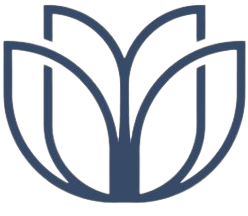
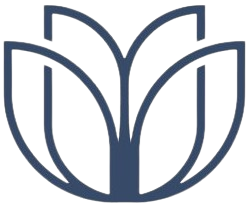
google ads

diff --git a/index.html b/index.html
@@ -22,7 +22,9 @@
     })(window, document, "script", "dataLayer", "GTM-5KB67D76");
   </script>
   <meta name="viewport" content="width=device-width, initial-scale=1" />
-  <title>Nutricionista Maiana Maria</title>
+  <title>Nutricionista em Niterói - Maiana Maria | Emagrecimento e Saúde</title>
+<meta name="description" content="Nutricionista em Niterói (Icaraí) 
+com atendimento presencial e online. Especialista em emagrecimento, hipertrofia e saúde intestinal. Agende sua consulta." />
   <link rel="stylesheet" href="styles.css" />
   <link
     href="https://fonts.googleapis.com/css2?family=Playfair+Display:wght@400;600;700&family=Inter:wght@300;400;500;600;700&display=swap"
@@ -39,7 +41,7 @@
   <header class="hero">
     <nav class="nav">
       <div class="brand">
-        <img src="images/nutricionista-niteroi-maiana-maria-simbolo.png" alt="Símbolo da nutricionista Maiana Maria Niteroi" />
+        <img src="images/nutricionista-niteroi-maiana-maria-simbolo.webp" loading="lazy" alt="Símbolo da nutricionista Maiana Maria Niteroi" />
         <span>Maiana Maria</span>
       </div>
       
@@ -55,7 +57,7 @@
     <div class="hero-content">
       <div class="hero-text">
         <p class="eyebrow">Acompanhamento nutricional individualizado</p>
-        <h1>Resultados reais e sustentáveis para a sua saúde.</h1>
+        <h1>Nutricionista em Niterói: Resultados reais e sustentáveis para a sua saúde.</h1>
         <p class="hero-p1">
           Emagrecimento, hipertrofia, saúde gastrointestinal e equilíbrio
           metabólico com acompanhamento especializado. Com escuta,
@@ -68,12 +70,12 @@
             target="_blank" rel="noopener">
             Agende sua consulta
           </a>
-          <span class="note">Atendimento presencial em Icaraí e online para todo o
+          <span class="note">Atendimento presencial em Niterói e online para todo o
             Brasil.</span>
         </div>
       </div>
       <div class="foto-maiana">
-          <img class="foto-maiana-img" src="images/nutricionista-niteroi-maiana-maria-fotoMaoNoQueixo.jpeg" alt="Foto da nutricionista Maiana Maria Niteroi" />
+          <img class="foto-maiana-img" src="images/nutricionista-niteroi-maiana-maria-fotoMaoNoQueixo.webp" loading="lazy" alt="Foto da nutricionista Maiana Maria Niteroi" />
         </div>
       </div>
     </div>
@@ -120,10 +122,9 @@
         <article class="card">
           <h3>Canetas Emagrecedoras</h3>
           <p>
-            Se você está usando medicações para emagrecimento e enfrenta enjoos, náuseas, 
-            queda de cabelo, cansaço ou perda de massa muscular, a nutrição certa faz toda a diferença. 
-            Tenha um acompanhamento nutricional focado em reduzir os efeitos colaterais, proteger sua massa magra 
-            e potencializar seus resultados, para que você emagreça com mais qualidade de vida e segurança.
+            Evite náuseas, queda de cabelo e perda de massa muscular ao usar medicações. 
+            Nutrição adequada para minimizar efeitos colaterais e potencializar 
+            seu emagrecimento com segurança.
           </p>
         </article>
       </div>
@@ -132,7 +133,7 @@
     <section class="section about" id="sobre">
       <div class="about-image">
         <div class="photo-card secondary hero-photo">
-          <img class="about-photo-image logo-maiana" src="images/nutricionista-niteroi-maiana-maria-nomeESimbolo.png" alt="Logo Nutricionista Maiana Maria Niteroi" />
+          <img class="about-photo-image logo-maiana" src="images/nutricionista-niteroi-maiana-maria-nomeESimbolo.webp" loading="lazy" alt="Logo Nutricionista Maiana Maria Niteroi" />
         </div>
       </div>
       <div class="about-text">
@@ -162,6 +163,14 @@
           ou desenvolver hábitos alimentares que realmente funcionem no dia a dia, será um prazer acompanhar a sua jornada.
           Atendo em consultório em Niterói e também realizo consultas online para pacientes de todo o Brasil.
         </p>
+      </div>
+    </section>
+    
+    <section class="section reviews-section" id="avaliacoes">
+      <div class="reviews-container">
+        <h2>O que dizem os pacientes</h2>
+        <script src="https://elfsightcdn.com/platform.js" async></script>
+        <div class="elfsight-app-755568e9-a37d-4377-bee5-1ad4613470a2" data-elfsight-app-lazy></div>
       </div>
     </section>
 
@@ -205,7 +214,7 @@
 
         <div class="health-image">
           <div class="photo-card health health-photo">
-            <img class="health-photo-image" src="images/fotoFitaInteira.jpeg" alt="Imagem que remete à saúde" />
+            <img class="health-photo-image" src="images/nutricionista-niteroi-maiana-maria-fotoFitaInteira.webp" loading="lazy" alt="Imagem que remete à saúde" />
           </div>
         </div>
       </div>
@@ -232,7 +241,7 @@
             Agende a sua consulta
           </a>
           <span class="note">
-            Atendimento presencial em Icaraí e on-line para todo Brasil.<br/>
+            Atendimento presencial em Niterói e on-line para todo Brasil.<br/>
             Somente consultas particulares – Não aceito convênios.
           </span>
           
@@ -254,7 +263,17 @@
     <p>
       Atendimento presencial: Rua Otávio Carneiro, 100, Icaraí – Niterói/RJ<br />
       Consultas online para todo o Brasil.
+      
     </p>
+    <div class="map-container">
+      <iframe 
+    class="map-iframe"
+    src="https://www.google.com/maps/embed?pb=!1m18!1m12!1m3!1d3675.3197607775084!2d-43.10915682390977!3d-22.901633540243543!2m3!1f0!2f0!3f0!3m2!1i1024!2i768!4f13.1!3m3!1m2!1s0x99817ccb9f71bf%3A0xc6c761e0bb4dcdd!2sR.%20Ot%C3%A1vio%20Carneiro%2C%20100%20-%20Icara%C3%AD%2C%20Niter%C3%B3i%20-%20RJ%2C%2024220-301!5e0!3m2!1spt-BR!2sbr!4v1715000000000!5m2!1spt-BR!2sbr" 
+    title="Mapa com a localização do consultório da nutricionista Maiana Maria em Icaraí, Niterói"
+    allowfullscreen="" 
+    loading="lazy">
+      </iframe>
+    </div>
 
     <p style="max-width: 600px; margin: 20px auto">
       As informações deste site não substituem avaliação nutricional
@@ -269,6 +288,34 @@
       Dra. Maiana Maria. Todos os direitos reservados.
     </p>
   </footer>
+
+  <script type="application/ld+json">
+{
+  "@context": "https://schema.org",
+  "@type": "HealthAndBeautyBusiness",
+  "name": "Nutricionista em Niteroi - Maiana Maria",
+  "image": "https://lh3.googleusercontent.com/gps-cs-s/AHRPTWlJkGaglcQC0bw8lK6YmAvIQtdBAcTvd-cT7GejPJ06zevcRycmLFFb1RSLV-H7PWAWd8brOUk3pNnYvWJQnfwMTELC2EOl-9dnoOUR6uM6KNVHZ_lN4muBCPA3itrEpA1bsWOIkQPtwtXu=s1360-w1360-h1020-rw",
+  "@id": "https://www.maianamaria.com.br/",
+  "url": "https://www.maianamaria.com.br/",
+  "telephone": "[phone redacted]",
+  "address": {
+    "@type": "PostalAddress",
+    "streetAddress": "Rua Otávio Carneiro, 100",
+    "addressLocality": "Niterói",
+    "addressRegion": "RJ",
+    "postalCode": "24220-300",
+    "addressCountry": "BR"
+  },
+  "geo": {
+    "@type": "GeoCoordinates",
+    "latitude": -22.9056,  /* Ajustar para a latitude exata de Icaraí */
+    "longitude": -43.1070  /* Ajustar para a longitude exata de Icaraí */
+  },
+  "sameAs": [
+    "https://www.instagram.com/eumaianamaria/"
+  ]
+}
+
 </body>
 
 </html>

diff --git a/styles.css b/styles.css
@@ -104,6 +104,10 @@ a {
   font-weight: 600;
 }
 
+#especialidades h2 {
+  text-align: center;
+}
+
 .hero-content {
   display: grid;
   grid-template-columns: repeat(auto-fit, minmax(280px, 1fr));
@@ -325,6 +329,28 @@ a {
   background-color: #f9f9f9;
   color: #444;
   line-height: 1.6;
+}
+
+/* Container das Avaliações (Elfsight) */
+.reviews-section {
+  max-width: 900px;
+  margin: 0 auto;
+  text-align: center;
+}
+
+/* Container do Mapa do Google */
+.map-container {
+  width: 100%;
+  max-width: 600px;
+  margin: 20px auto;
+  display: block;
+}
+
+.map-iframe {
+  border: 0;
+  width: 100%;
+  height: 300px;
+  border-radius: 8px;
 }
 
 @media (max-width: 900px) {